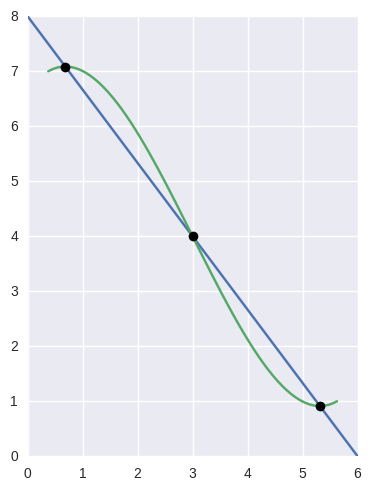
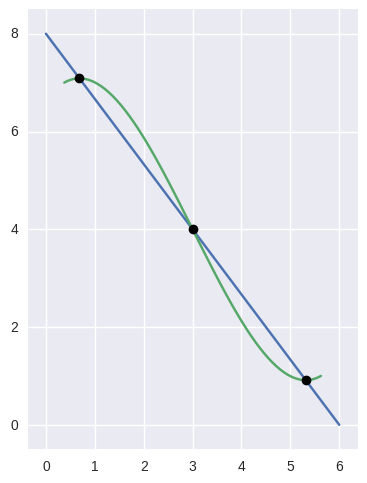
Updating "dev doc" with note about images from fnl. tests.
Also adding a helper for padding around plots and then
regenerating relevant plots with that helper.

Also updating "dev doc" section on functional tests to
give an example of our 4th type of functional test.

diff --git a/functional_tests/runtime_utils.py b/functional_tests/runtime_utils.py
@@ -25,6 +25,8 @@ except ImportError:
     pass
 import six
 
+from bezier import _helpers
+
 
 EPS = 2.0**(-50)
 _FNL_TESTS_DIR = os.path.dirname(__file__)
@@ -94,6 +96,22 @@ def real_roots(coeffs):
     all_roots = np.roots(coeffs)
     filtered = all_roots[all_roots.imag == 0.0].real
     return np.sort(filtered)
+
+
+def add_plot_boundary(ax, nodes):
+    """Add a buffer of empty space around a plot boundary.
+
+    Args:
+        ax (matplotlib.artist.Artist): A matplotlib axis.
+        nodes (numpy.ndarray): The nodes defining the plot.
+    """
+    left, right, bottom, top = _helpers.bbox(nodes)
+    center_x = 0.5 * (right + left)
+    delta_x = right - left
+    center_y = 0.5 * (top + bottom)
+    delta_y = top - bottom
+    ax.set_xlim(center_x - 0.5625 * delta_x, center_x + 0.5625 * delta_x)
+    ax.set_ylim(center_y - 0.5625 * delta_y, center_y + 0.5625 * delta_y)
 
 
 class Config(object):  # pylint: disable=too-few-public-methods

diff --git a/bezier/_surface_helpers.py b/bezier/_surface_helpers.py
@@ -861,6 +861,11 @@ def locate_point(surface, x_val, y_val):
 def classify_intersection(intersection):
     """Determine which curve is on the "inside of the intersection".
 
+    .. note::
+
+       This function doesn't allow wiggle room / round-off when checking
+       endpoints, nor when checking if the cross-product is near zero.
+
     Args:
         intersection (.Intersection): An intersection object.
 
@@ -868,7 +873,7 @@ def classify_intersection(intersection):
         int: The index of the "inside" curve (``0`` or ``1``).
 
     Raises:
-        NotImplementedError: If the intersect is at an endpoint of
+        NotImplementedError: If the intersection is at an endpoint of
             one of the curves.
         NotImplementedError: The curves are tangent at the intersection.
     """

diff --git a/functional_tests/test_surface_locate.py b/functional_tests/test_surface_locate.py
@@ -74,13 +74,7 @@ def make_plot(surface, point):
             marker='o', linestyle='None')
 
     ax.axis('scaled')
-    left, right, bottom, top = _helpers.bbox(surface._nodes)
-    center_x = 0.5 * (right + left)
-    delta_x = right - left
-    center_y = 0.5 * (top + bottom)
-    delta_y = top - bottom
-    ax.set_xlim(center_x - 0.5625 * delta_x, center_x + 0.5625 * delta_x)
-    ax.set_ylim(center_y - 0.5625 * delta_y, center_y + 0.5625 * delta_y)
+    runtime_utils.add_plot_boundary(ax, surface._nodes)
 
     if CONFIG.save_plot:
         CONFIG.save_fig()

diff --git a/functional_tests/test_curve_curve.py b/functional_tests/test_curve_curve.py
@@ -243,6 +243,9 @@ def make_plots(curve1, curve2, points, ignore_save=False):
     ax.plot(points[:, 0], points[:, 1],
             marker='o', linestyle='None', color='black')
     ax.axis('scaled')
+    nodes = np.vstack([curve1._nodes, curve2._nodes])
+    runtime_utils.add_plot_boundary(ax, nodes)
+
     if CONFIG.save_plot:
         if not ignore_save:
             CONFIG.save_fig()

diff --git a/functional_tests/test_surface_surface.py b/functional_tests/test_surface_surface.py
@@ -429,6 +429,8 @@ def make_plots(surface1, surface2, points):
     ax.plot(points[:, 0], points[:, 1], color='black',
             marker='o', linestyle='None')
     plt.axis('scaled')
+    nodes = np.vstack([surface1._nodes, surface2._nodes])
+    runtime_utils.add_plot_boundary(ax, nodes)
 
     if CONFIG.save_plot:
         CONFIG.save_fig()

diff --git a/DEVELOPMENT.rst b/DEVELOPMENT.rst
@@ -127,9 +127,13 @@ A surface-surface intersection functional test case:
 
 .. image:: https://github.com/dhermes/bezier/blob/master/docs/images/test_surfaces1Q_and_2Q.png
 
-and a segment-box functional test case:
+a segment-box functional test case:
 
 .. image:: https://github.com/dhermes/bezier/blob/master/docs/images/test_goes_through_box.png
+
+and a "locate point on surface" functional test case:
+
+.. image:: https://github.com/dhermes/bezier/blob/master/docs/images/test_surface3_and_point1.png
 
 ************
 Coding Style
@@ -239,6 +243,18 @@ To regenerate the images:
    >   -d docs/build/doctrees \
    >   docs \
    >   build/doctest
+
+The images in the `Curve-Curve Intersection`_ document and and this
+document are generated as part of the functional tests:
+
+.. code-block:: console
+
+   $ python functional_tests/test_curve_curve.py --save-plot
+   $ python functional_tests/test_segment_box.py --save-plot
+   $ python functional_tests/test_surface_locate.py --save-plot
+   $ python functional_tests/test_surface_surface.py --save-plot
+
+.. _Curve-Curve Intersection: http://bezier.readthedocs.io/en/latest/curve-curve-intersection.html
 
 **********************
 Continuous Integration
